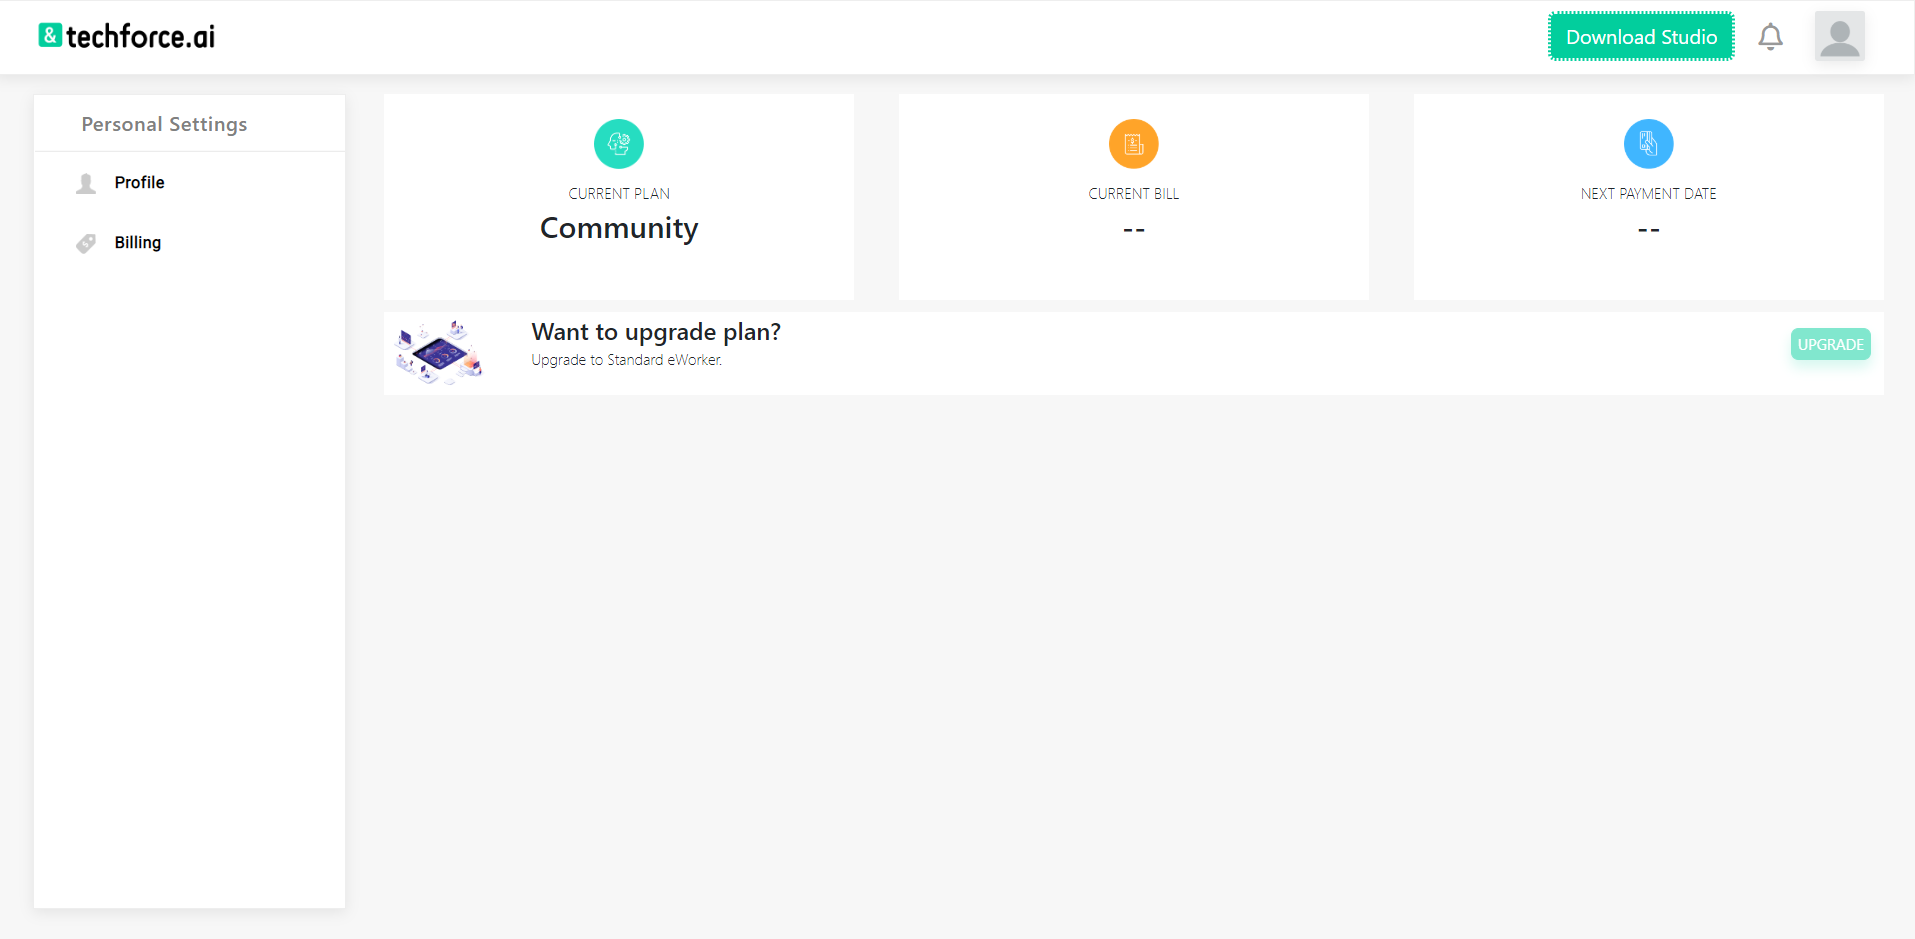
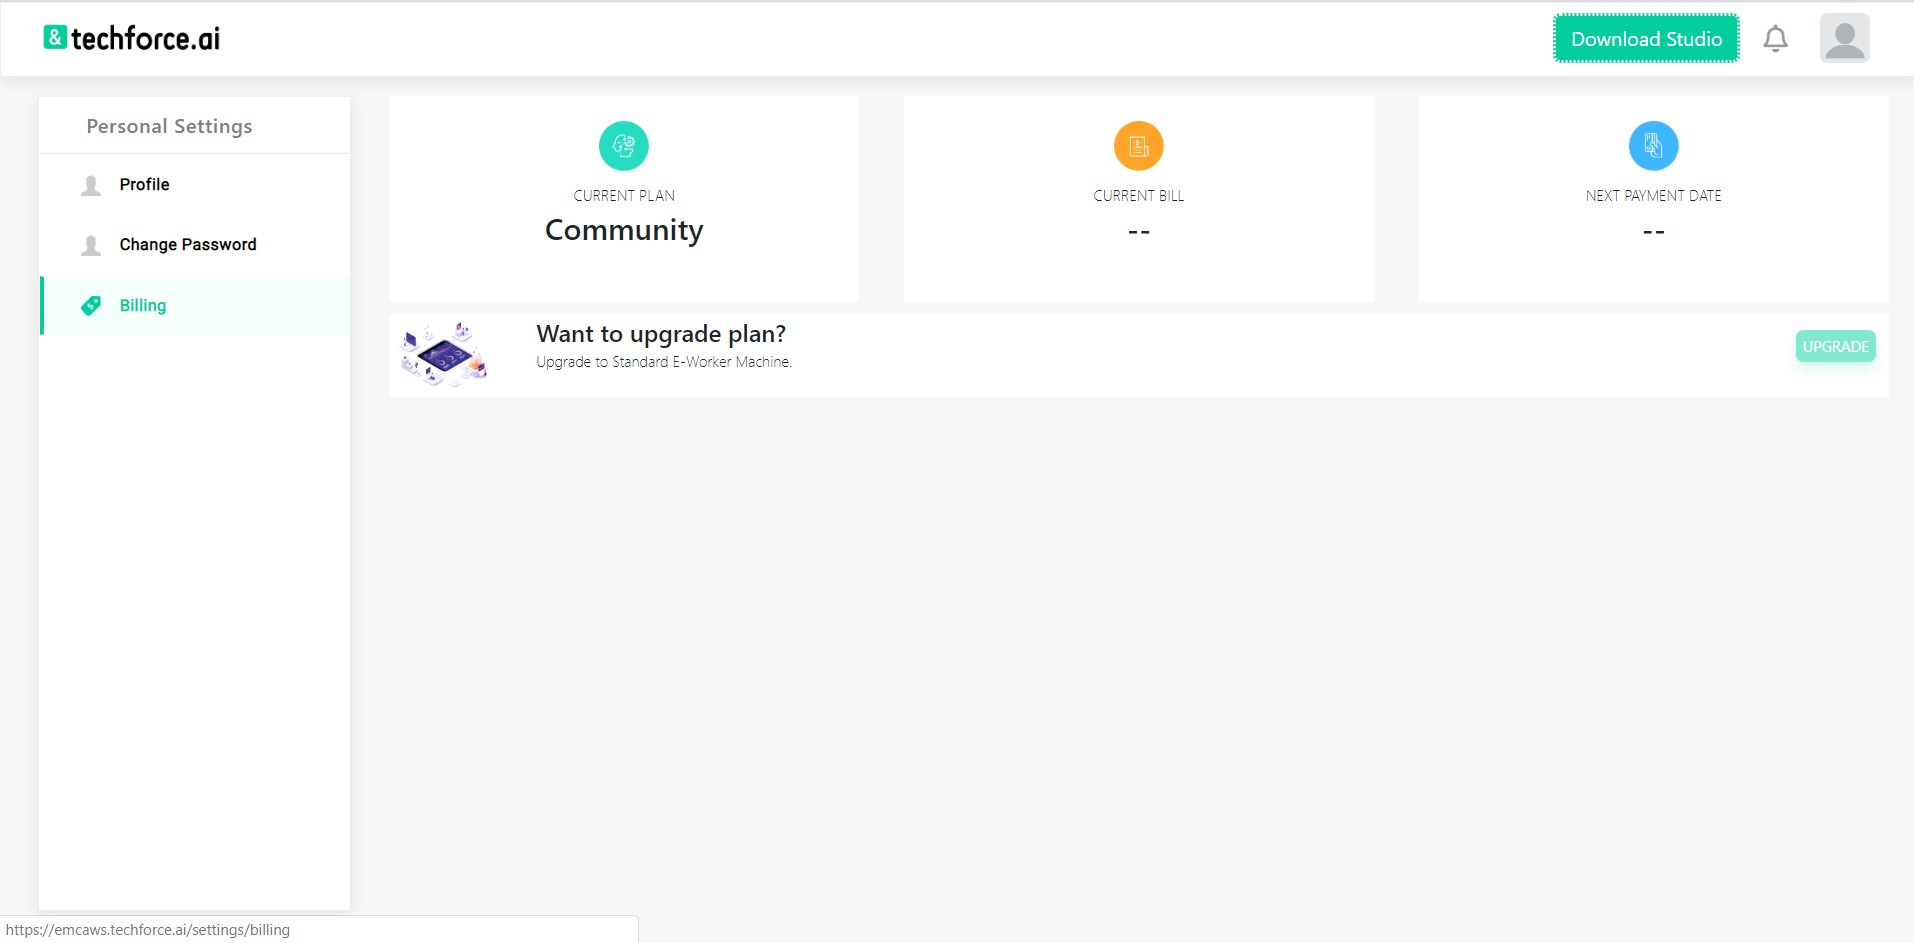
hdusdadna

diff --git a/_layouts/default.html b/_layouts/default.html
@@ -976,11 +976,11 @@
                              </ol>
                              <h5>Download Techforce.ai RPA Studio:</h5>
                              <p>1. To download the studio, the user must register with the e-manager console.</p>
-                             <p>2. To get access to the e-manager console, go to <a  target="_blank" href="https://emcaws.Techforce.ai/try/signup?subscriptionId=0">https://emcaws.Techforce.ai/try/signup?subscriptionId=0 </a> and submit the details.</p>
+                             <p>2. To get access to the e-manager console, go to <a  target="_blank" href="https://emanager.Techforce.ai/try/signup?subscriptionId=0">https://emanager.Techforce.ai/try/signup?subscriptionId=0</a> and submit the details.</p>
                              <img src="{{ '/assets/images/doc-img112.png' | relative_url }}" alt="image" style="width:400px;text-align:center;border:1px solid green;margin-left:20%;margin-top:10px;margin-bottom:10px;">
                              <p>3. Upon successful registration, you will be redirected to the login page.</p>
                              <img src="{{ '/assets/images/doc-img113.png' | relative_url }}" alt="image" style="width:400px;text-align:center;border:1px solid green;margin-left:20%;margin-top:10px;margin-bottom:10px;">
-                              <p>4.	You will be prompted to verify your email on the first login.</p>
+                             <p>4. You will be prompted to verify your email on the first login.</p>
 
                              <img src="{{ '/assets/images/doc-img114.png' | relative_url }}" alt="image" style="width:600px;text-align:center;border:1px solid green;margin-left:15%;margin-top:10px;margin-bottom:10px;">
                               <p>5.	 Go to your registered email and click on the verification link to complete the email verification process.</p>
@@ -994,8 +994,8 @@
                              <h5>Installing RPA Studio</h5>
                              <ol>
                              <li><span class="numbers">1.</span> After downloading the RPA studio, move the downloaded studio.exe file to the desired folder where it needs to be installed.</li>
-                             <li><span class="numbers">2.</span> Right-click on the installer and select “Run as administrator” so that RPA studio will have “Admin” privileges</li>
-                             <p>The following image is an example of how to run as an administrator.</p>
+                             <li><span class="numbers">2.</span> Double-click on the installer to start the installation.</li>
+
                              <img src="{{ '/assets/images/doc-img1.png' | relative_url }}" alt="image" style="text-align:center;border:1px solid green;margin-left:0%;margin-top:10px;margin-bottom:10px;">
                                <p style="text-align:center;"><strong>Figure: Installation Instruction-1 </strong></p>
                              <li><span class="numbers">3.</span> Windows will ask for permission stating “Do you want to allow the unknown publisher to install the application”. Click YES, and the installation process will start.</li>
@@ -1010,21 +1010,28 @@
                              <img src="{{ '/assets/images/doc-img4.png' | relative_url }}" alt="image" style="width:600px;border:1px solid green;margin-left:15%;margin-top:10px;margin-bottom:10px;">
                              <p style="text-align:center;"><strong>Figure: Installation Instruction-4</strong></p>
 
-                             <li><span class="numbers">7.</span> The installation will take some time, and after installing the Studio, click on CLOSE button to continue for further process</li>
+                             <li><span class="numbers">7.</span> The installation will take some time, and after installing the Studio, click on CLOSE button.</li>
                              <img src="{{ '/assets/images/doc-img5.png' | relative_url }}" alt="image" style="width:600px;border:1px solid green;margin-left:15%;margin-top:10px;margin-bottom:10px;">
                              <p style="text-align:center;"><strong>Figure: Installation Instruction-5</strong></p>
+                             <li><span class="numbers">8.</span>After completing the installation user can see the Techforce.ai RPA studio Icon on the desktop.</li>
+                             <img src="{{ '/assets/images/doc-img121.png' | relative_url }}" alt="image" style="width:600px;border:1px solid green;margin-left:15%;margin-top:10px;margin-bottom:10px;">
+                             <p style="text-align:center;"><strong>Figure: Installation Instruction-6</strong></p>
                              </ol>
                           </div>
 
                           <div id="InstallingTechForceOCR"  class="page-section">
+                            <h4>Post Installation Steps:</h4>
                               <h4 class="purple"><span class="numbers"></span>  Installing Techforce.ai OCR</h4>
+                            <p>Installing techforce.ai OCR depends on User requirement.</p>
+                            <p>User can find the techforce.ai OCR.exe in the given location: “C:\Techforce\Techforce.ai Studio\resources\static\tesseract-ocr-w64-setup-v4.0.0.20181030.exe”</p>
                             <p>Techforce.ai OCR needs 164MB of hard disk space for installation.</p>
                             <ol>
-                            <li><span class="numbers">1.</span> In the first screen of Techforce.ai OCR installation, select preferred language, and click “OK” which will start the installation of Techforce.ai OCR.</li>
-                             <img src="{{ '/assets/images/doc-img6.png' | relative_url }}" alt="image" style="width:600px;border:1px solid green;margin-left:15%;margin-top:10px;margin-bottom:10px;" >
-                              <p style="text-align:center;"><strong>Figure: Installing Techforce.ai OCR-1</strong></p>
-                            <li><span class="numbers">2.</span> In the next screen of OCR installation, click NEXT to continue the installation process.</li>
-
+                            <li><span class="numbers">1.</span> Double click on “tesseract-ocr-w64-setup-v4.0.020181.03.exe”.</li>
+                            <img src="{{ '/assets/images/doc-img6.png' | relative_url }}" alt="image" style="width:600px;border:1px solid green;margin-left:15%;margin-top:10px;margin-bottom:10px;" >
+                              <p style="text-align:center;"><strong>Figure:  Installing Techforce.ai OCR-1</strong></p>
+                            <li><span class="numbers">2.</span> In the first screen of Techforce.ai OCR installation, select preferred language, and click “OK” which will start the installation of Techforce.ai OCR.</li>
+                            <img src="{{ '/assets/images/doc-img122.png' | relative_url }}" alt="image" style="width:600px;border:1px solid green;margin-left:15%;margin-top:10px;margin-bottom:10px;">
+                              <p style="text-align:center;"><strong>Figure:  Installing Techforce.ai OCR-1</strong></p>
                             <li><span class="numbers">3.</span> Accept the license agreement of Techforce.ai OCR to continue the installation process.</li>
                             <img src="{{ '/assets/images/doc-img7.png' | relative_url }}" alt="image" style="width:600px;border:1px solid green;margin-left:15%;margin-top:10px;margin-bottom:10px;">
                               <p style="text-align:center;"><strong>Figure:  Installing Techforce.ai OCR-2</strong></p>
@@ -1043,6 +1050,21 @@
                             <img src="{{ '/assets/images/doc-img11.png' | relative_url }}" alt="image" style="width:600px;border:1px solid green;margin-left:15%;margin-top:10px;margin-bottom:10px;">
                                <p style="text-align:center;"><strong>Figure:  Installing Techforce.ai OCR-6 </strong></p>
                             </ol>
+
+
+                          <h4>Using Microsoft Edge with Techforce.ai:</h4>
+                          <ol>
+                          <li><span class="numbers">1.</span> To use Microsoft Edge Browser in the Open webpage action.</li>
+                          <img src="{{ '/assets/images/doc-img123.png' | relative_url }}" alt="image" style="width:600px;border:1px solid green;margin-left:15%;margin-top:10px;margin-bottom:10px;">
+                          <p style="text-align:center;"><strong>Figure:  ME1 </strong></p>
+                          <p><span class="numbers">2.</span> The user should open the command prompt with administrator privileges.</p>
+                          <img src="{{ '/assets/images/doc-img124.png' | relative_url }}" alt="image" style="width:600px;border:1px solid green;margin-left:15%;margin-top:10px;margin-bottom:10px;">
+                          <p style="text-align:center;"><strong>Figure: ME2</strong></p>
+                          <p><span class="numbers">3.</span> Run the following command: DISM.exe /Online /Add-Capability /CapabilityName:Microsoft.WebDriver~~~~0.0.1.0</p>
+                          <img src="{{ '/assets/images/doc-img125.png' | relative_url }}" alt="image" style="width:600px;border:1px solid green;margin-left:15%;margin-top:10px;margin-bottom:10px;">
+                          <p style="text-align:center;"><strong>Figure: ME3</strong></p>
+                          <p><span class="numbers">4.</span> Click on enter and the command starts executing. It takes a few seconds, and then can see the success message. This process is a onetime task.</p>
+                          </ol>
                          </div>
 
                          <div id="Un-installInstructions"  class="page-section">
@@ -1175,10 +1197,10 @@
                           </div>
                           <div id="Settings"  class="page-section">
                             <h5 class="green"> Settings</h5>
-                            <p>Used to set the global wait time of the flow and basic Chrome dimensions.</p>
+                            <p>Used to set the global wait time for the action flows.</p>
                             <img src="{{ '/assets/images/doc-img26.png' | relative_url }}" alt="image" style="width:100px;margin-top:10px;border:1px solid green;margin-left:45%;margin-bottom:10px;">
                             <p style="text-align:center;"><strong>Figure 12: Settings</strong></p>
-                            <p>Also, it asks Chrome should open or close at the time of exception and at the time of flow completion.</p>
+                            <p>Also, it asks Chrome should open or close at the time of flow completion.</p>
                             <img src="{{ '/assets/images/doc-img27.png' | relative_url }}" alt="image" style="width:400px;margin-top:10px;border:1px solid green;margin-left:30%;margin-bottom:10px;">
                             <p style="text-align:center;"><strong>Figure 13:  Global Settings</strong></p>
                           </div>
@@ -2353,13 +2375,13 @@
 
 
                           <div id="Enterprise-managerconsole"  class="page-section">
-                              <h3><span class="numbers">4.</span> Enterprise Manager Console</h3>
+                              <h3>Enterprise Manager Console</h3>
                           </div>
 
                             <div id="Registerwith"  class="page-section">
                               <h4 class="skyBlue"> Register with E-Manager Console</h4>
 
-                              <p>1. To get access to the e-manager console, goto <a  target="_blank" href="https://emcaws.Techforce.ai/try/signup?subscriptionId=0">https://emcaws.Techforce.ai/try/signup?subscriptionId=0 </a> and submit the details.</p>
+                              <p>1. To get access to the e-manager console, goto <a  target="_blank" href="https://emanager.Techforce.ai/try/signup?subscriptionId=0 ">https://emanager.Techforce.ai/try/signup?subscriptionId=0 </a> and submit the details.</p>
                               <img src="{{ '/assets/images/doc-img112.png' | relative_url }}" alt="image" style="width:400px;text-align:center;border:1px solid green;margin-left:20%;margin-top:10px;margin-bottom:10px;">
                               <p style="text-align:center;"><strong>Figure: Details </strong></p>
                               <p><span class="numbers">2.</span> Upon successful registration, you will be redirected to the login page.</p>
@@ -2377,7 +2399,7 @@
                            <div id="Login"  class="page-section">
                              <h4 class="skyBlue"> Login</h4>
                                <p>1. To Login into e-manager console</p>
-                               <img src="{{ '/assets/images/doc-img48.png' | relative_url }}"alt="image" class="topImg" style="width:400px; border: 1px solid green;margin-left:25%;margin-top:10px;margin-bottom:10px;">
+                               <img src="{{ '/assets/images/doc-img46.png' | relative_url }}"alt="image" class="topImg" style="width:400px; border: 1px solid green;margin-left:25%;margin-top:10px;margin-bottom:10px;">
                                <p style="text-align:center;"><strong>Figure: Login </strong></p>
                                <p>2. Enter the credentials and click on the login button, you can see Action flows, e-worker machines, Queues, Schedules, and Secret Vault in the left menu.</p>
                                <p>3. The action flows tab shows the list of action flows published to the e-manager console.</p>
@@ -2552,6 +2574,10 @@
                           <p>1. The billing section shows your current plan and options available for upgrading.</p>
                           <img src="{{ '/assets/images/doc-img118.png' | relative_url }}"alt="image" class="topImg" style="border:1px solid green; margin-left:0%;margin-top:10px;margin-bottom:10px;">
                           <p style="text-align:center;"><strong>Figure: Billing Details</strong></p>
+                          <h5>Update Password:</h5>
+                          <p>1. To update the login password click on the Update password button and a mail will be sent to the registered mail id.</p>
+                          <img src="{{ '/assets/images/doc-img126.png' | relative_url }}"alt="image" class="topImg" style="border:1px solid green; margin-left:0%;margin-top:10px;margin-bottom:10px;">
+                          <p style="text-align:center;"><strong>Figure: Update Password</strong></p>
                         </div>
 
                         <div id="Notifications"  class="page-section">
@@ -2562,7 +2588,7 @@
                         </div>
 
                           <div id="Worker"  class="page-section">
-                            <h3 style="text-transform:none"><span class="numbers">5.</span> E-Worker Machine</h3>
+                            <h3 style="text-transform:none"><span class="numbers"></span> E-Worker Machine</h3>
                           </div>
 
                            <div id="RuntimeInstallation"  class="page-section">
@@ -2729,7 +2755,7 @@
                             <h5>11. Problems are common</h5>
                             <p> You are not alone facing the problems/issues. Developers are likely to encounter some seemingly “insurmountable” problems during the development stage. It is highly likely that someone else has encountered the same problem and found a solution for it.</p>
                             <p> Check out for the solution in the Techforce.ai forum using the following URL:</p>
-                            <a target="_blank" href="forum.Techforce.ai">forum.Techforce.ai</a>
+                            <a target="_blank" href="https://forum.techforce.ai/">https://forum.techforce.ai/</a>
                             <h5>12. Couldn't find the solution yet?</h5>
                             <p> Don't worry. The expert team of Techforce.ai will guide you on how to solve the problem. Post your question in Forum. </p>
                             <h5>13. Dos & Dont’s</h5>
